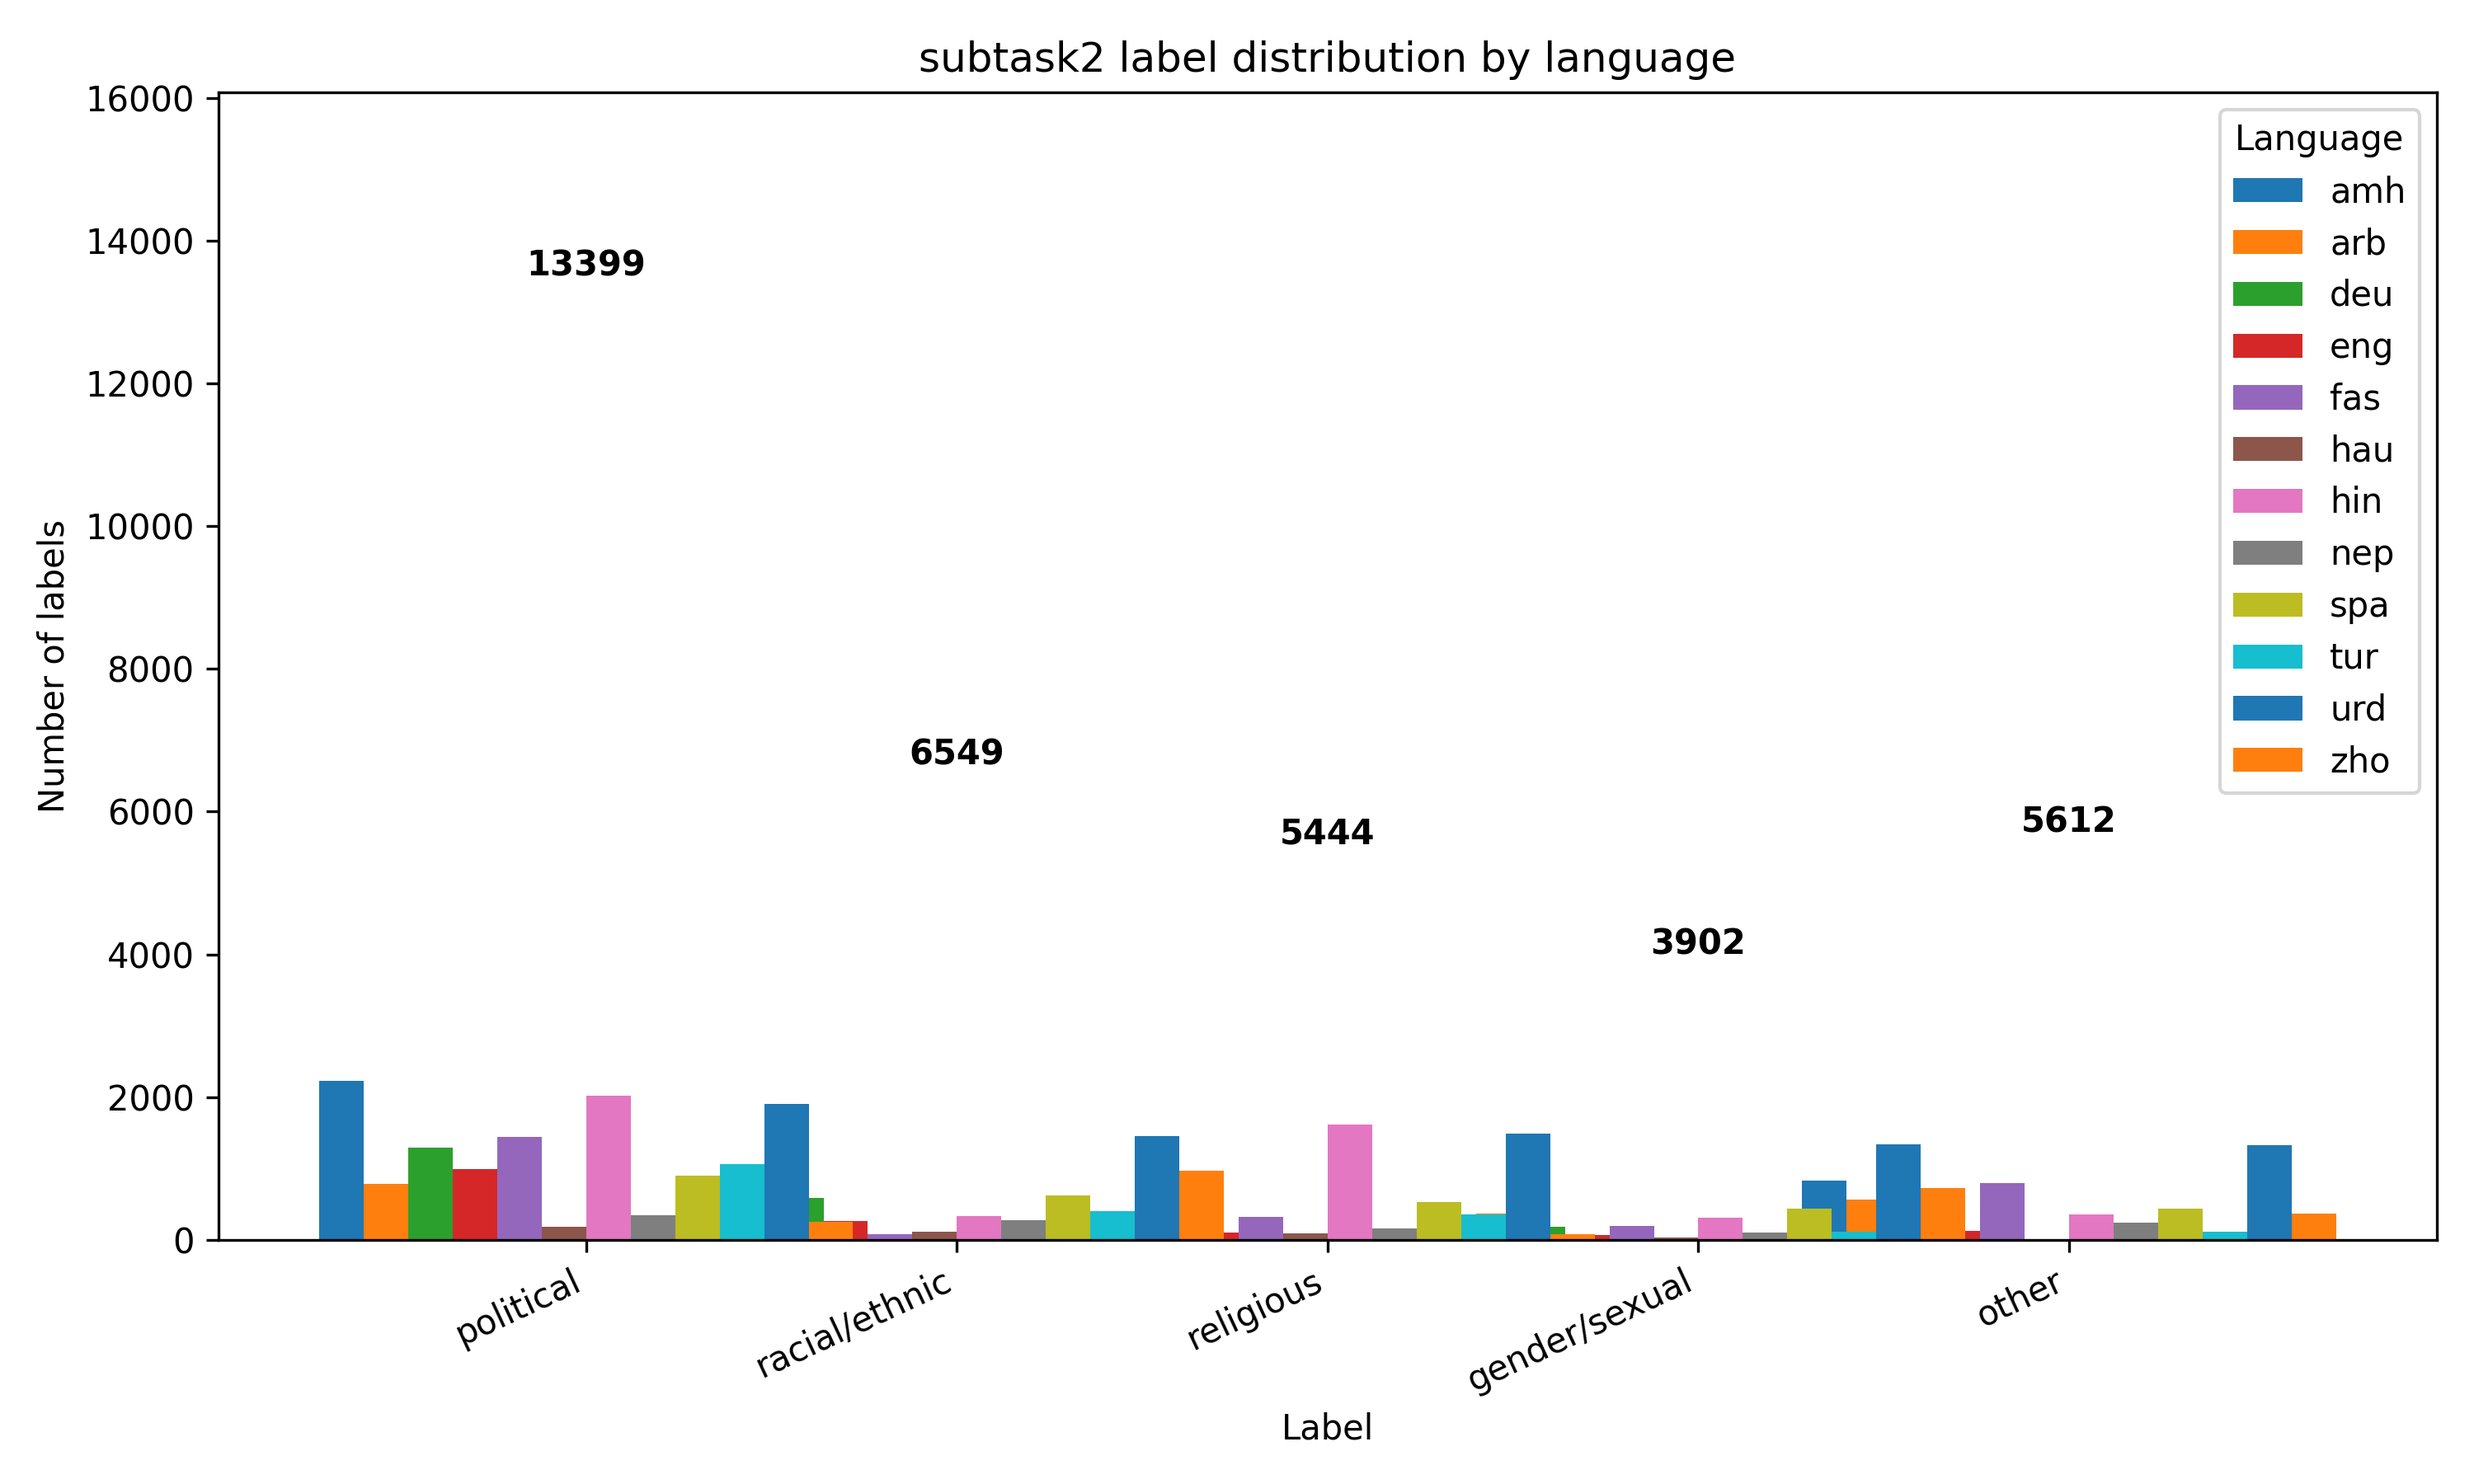
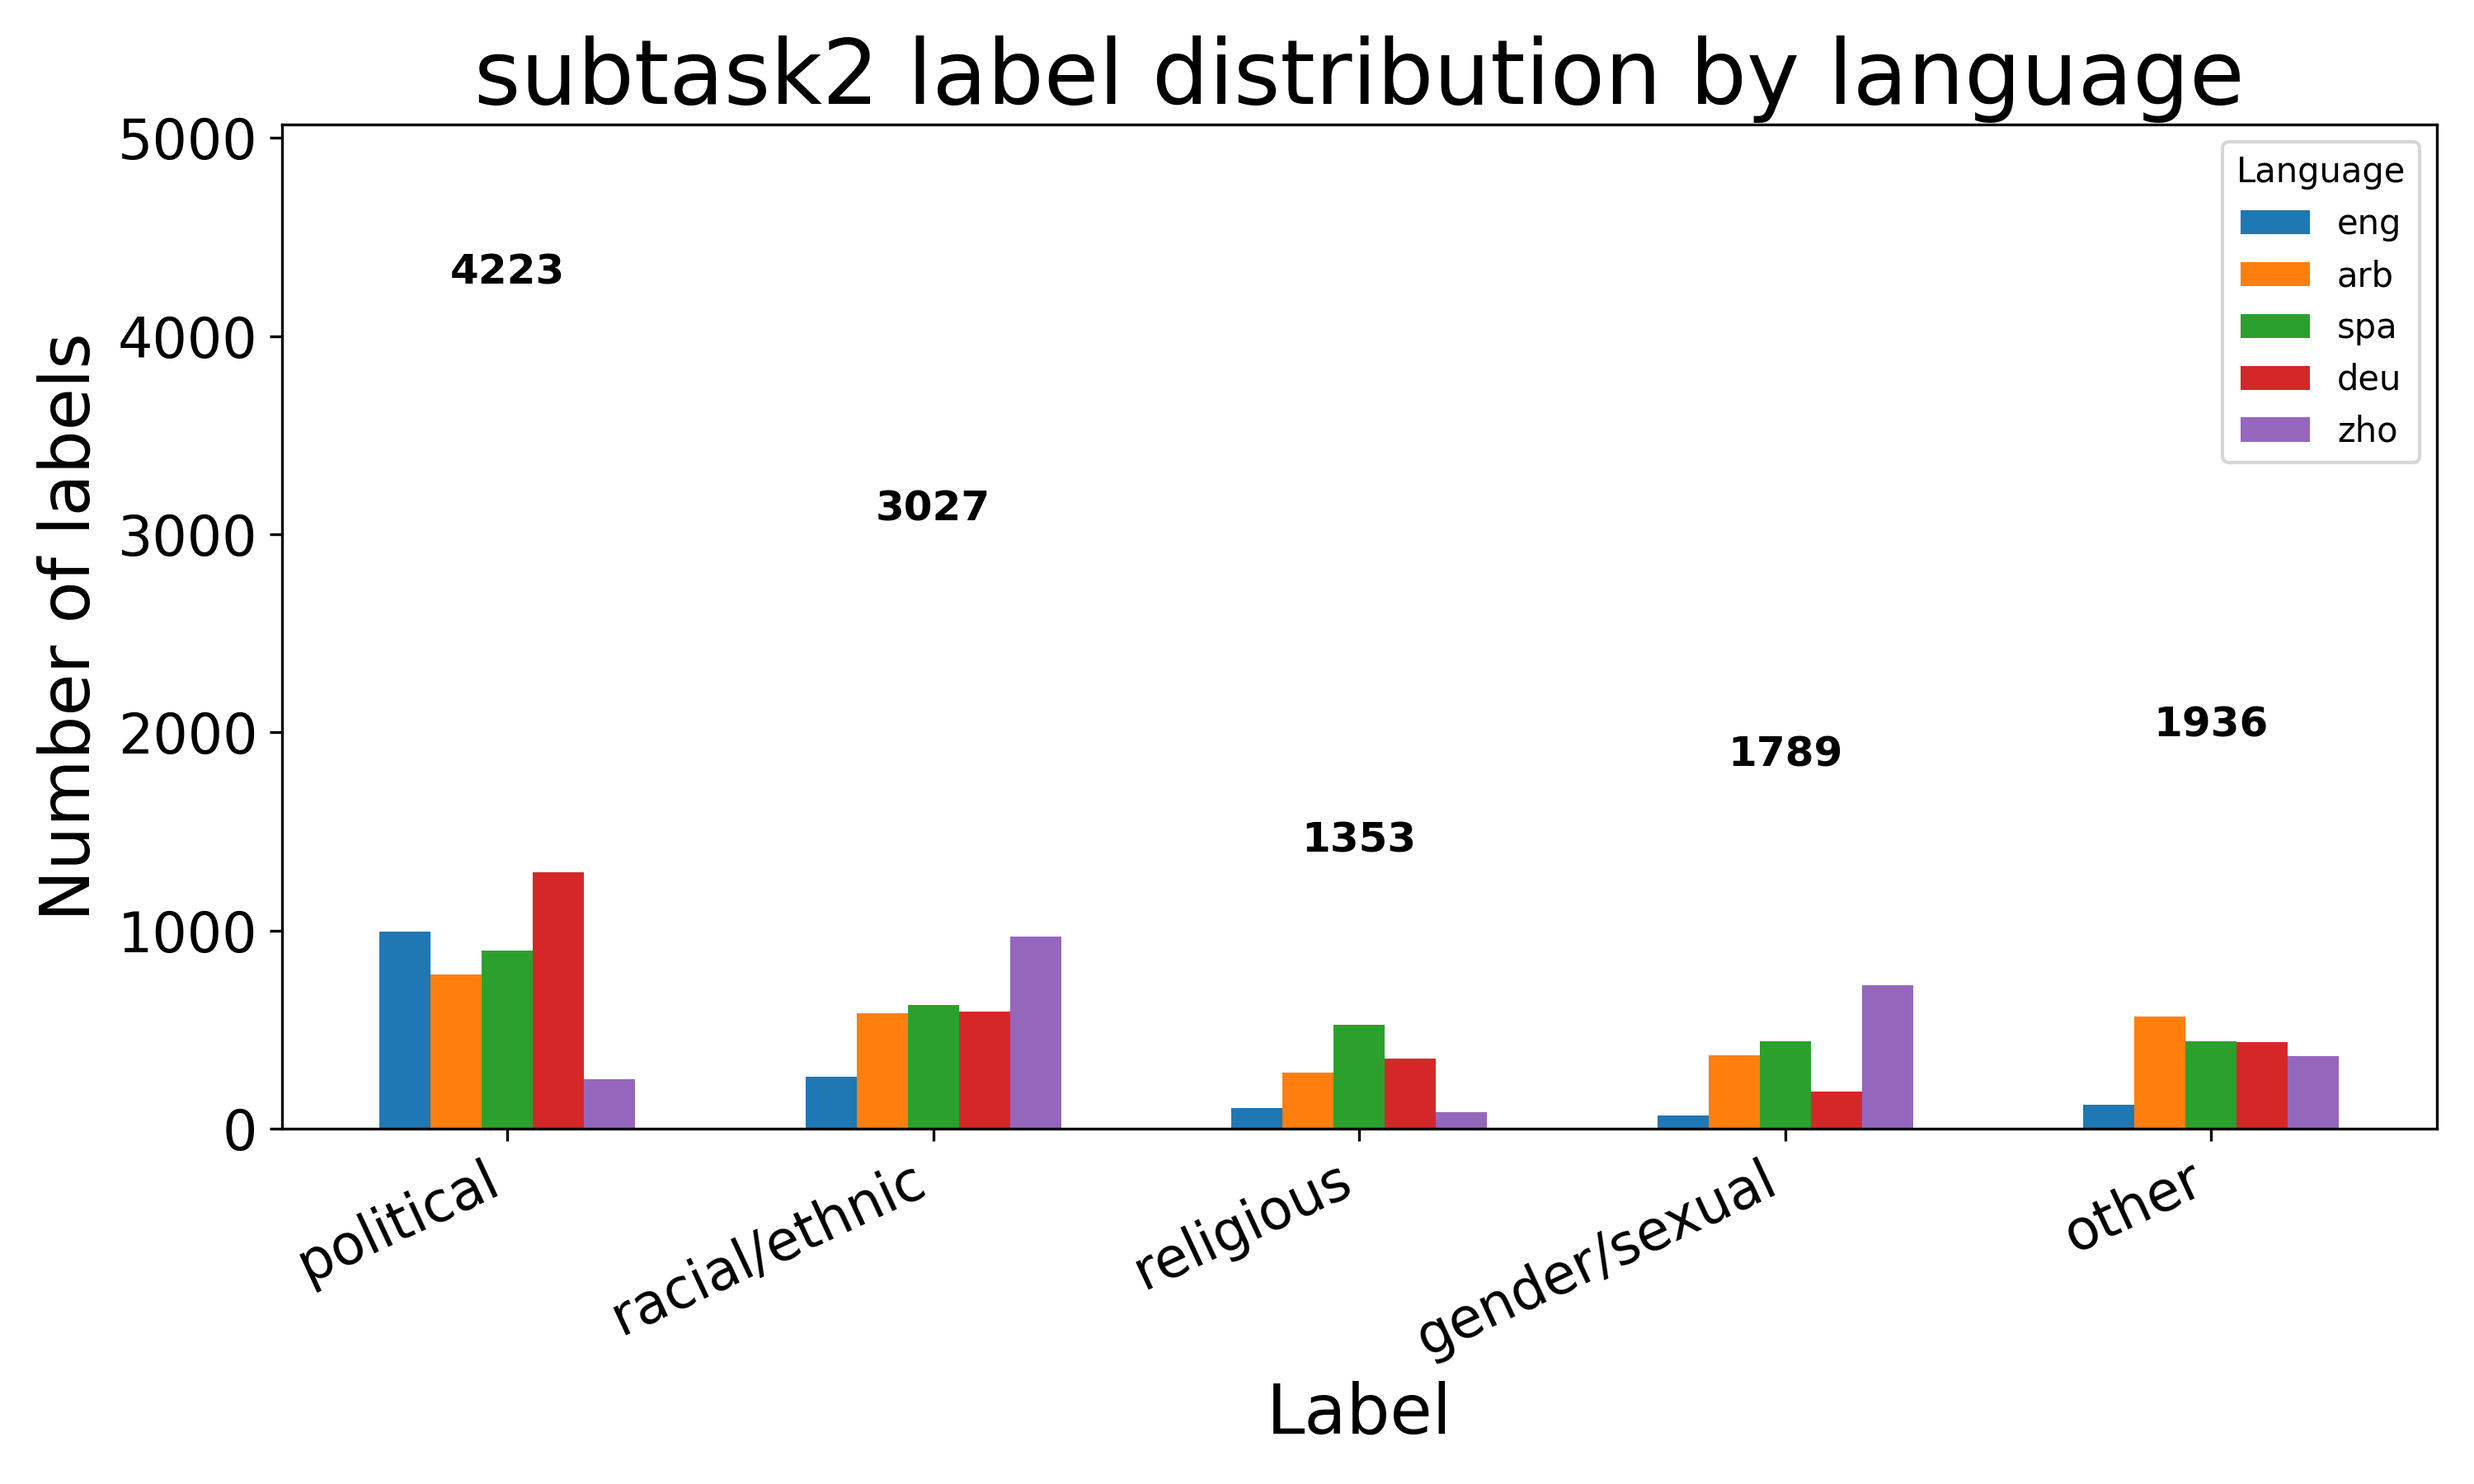
Updated plots w larger titles and labels

diff --git a/plot_data_distributions.py b/plot_data_distributions.py
@@ -16,13 +16,24 @@ from __future__ import annotations
 
 import argparse
 from pathlib import Path
-from typing import Dict, Iterable, List
+from typing import Dict, Iterable, List, Optional
 
 import matplotlib.pyplot as plt
 import pandas as pd
 
+plt.rcParams.update(
+    {
+        "axes.titlesize": 26,   # main axes titles
+        "axes.labelsize": 20,   # x/y axis labels
+        "xtick.labelsize": 16,  # x tick labels
+        "ytick.labelsize": 16,  # y tick labels
+    }
+)
 
 LANG_CODES = ["eng", "arb", "spa", "deu", "zho"]
+# Set to a list (e.g., ["eng", "spa"]) to fix the language subset without CLI args.
+# Set to None to auto-discover languages or supply --languages on the command line.
+DEFAULT_LANG_FILTER: Optional[List[str]] = LANG_CODES
 
 SUBTASK_CONFIG: Dict[str, Dict[str, List[str]]] = {
     "subtask1": {"label_cols": ["polarization"]},
@@ -69,7 +80,7 @@ def parse_args() -> argparse.Namespace:
         nargs="+",
         default=None,
         help="Language codes to include (e.g., eng arb spa deu zho). Defaults to "
-        "all languages with data in every subtask when omitted.",
+        "DEFAULT_LANG_FILTER if set, otherwise all languages with data in every subtask.",
     )
     return parser.parse_args()
 
@@ -157,7 +168,7 @@ def plot_counts(
             f"{total}",
             ha="center",
             va="bottom",
-            fontsize=10,
+            fontsize=12,
             weight="bold",
         )
 
@@ -201,7 +212,7 @@ def plot_example_totals(
         ]
         max_val = max(max_val, max(vals) if vals else 0)
         bars = ax.bar(offsets, vals, width=width, label=lang)
-        ax.bar_label(bars, padding=3, fontsize=9)
+        ax.bar_label(bars, padding=3, fontsize=12)
 
     ax.set_xticks(x_positions)
     ax.set_xticklabels(subtask_names, rotation=0, ha="center")
@@ -256,10 +267,36 @@ def save_subtask2_language_table(
     return path
 
 
+def save_subtask3_language_table(
+    frames: Dict[str, pd.DataFrame], output_dir: Path
+) -> Path:
+    """Write a table of subtask3 class counts per language."""
+    label_cols = SUBTASK_CONFIG["subtask3"]["label_cols"]
+    rows = []
+    for lang, df in sorted(frames.items()):
+        row = {"language": lang, "total_examples": len(df)}
+        for col in label_cols:
+            row[col] = int(df[col].astype(int).sum())
+        rows.append(row)
+    if not rows:
+        raise ValueError("No subtask3 frames provided to save_subtask3_language_table.")
+
+    table = pd.DataFrame(rows)
+    output_dir.mkdir(parents=True, exist_ok=True)
+    path = output_dir / "subtask3_language_class_counts.csv"
+    table.to_csv(path, index=False)
+    print(f"subtask3: saved counts table to {path}")
+    return path
+
+
 def main() -> None:
     args = parse_args()
     languages = (
-        discover_languages(args.data_root) if args.languages is None else args.languages
+        args.languages
+        if args.languages is not None
+        else DEFAULT_LANG_FILTER
+        if DEFAULT_LANG_FILTER is not None
+        else discover_languages(args.data_root)
     )
     frames_by_subtask: Dict[str, Dict[str, pd.DataFrame]] = {}
     for subtask in SUBTASK_CONFIG:
@@ -275,6 +312,8 @@ def main() -> None:
         print(f"{subtask}: saved figure to {output_path}")
         if subtask == "subtask2":
             save_subtask2_language_table(frames, args.output_dir)
+        if subtask == "subtask3":
+            save_subtask3_language_table(frames, args.output_dir)
     total_path = plot_example_totals(frames_by_subtask, languages, args.output_dir)
     print(f"Totals: saved figure to {total_path}")
 
